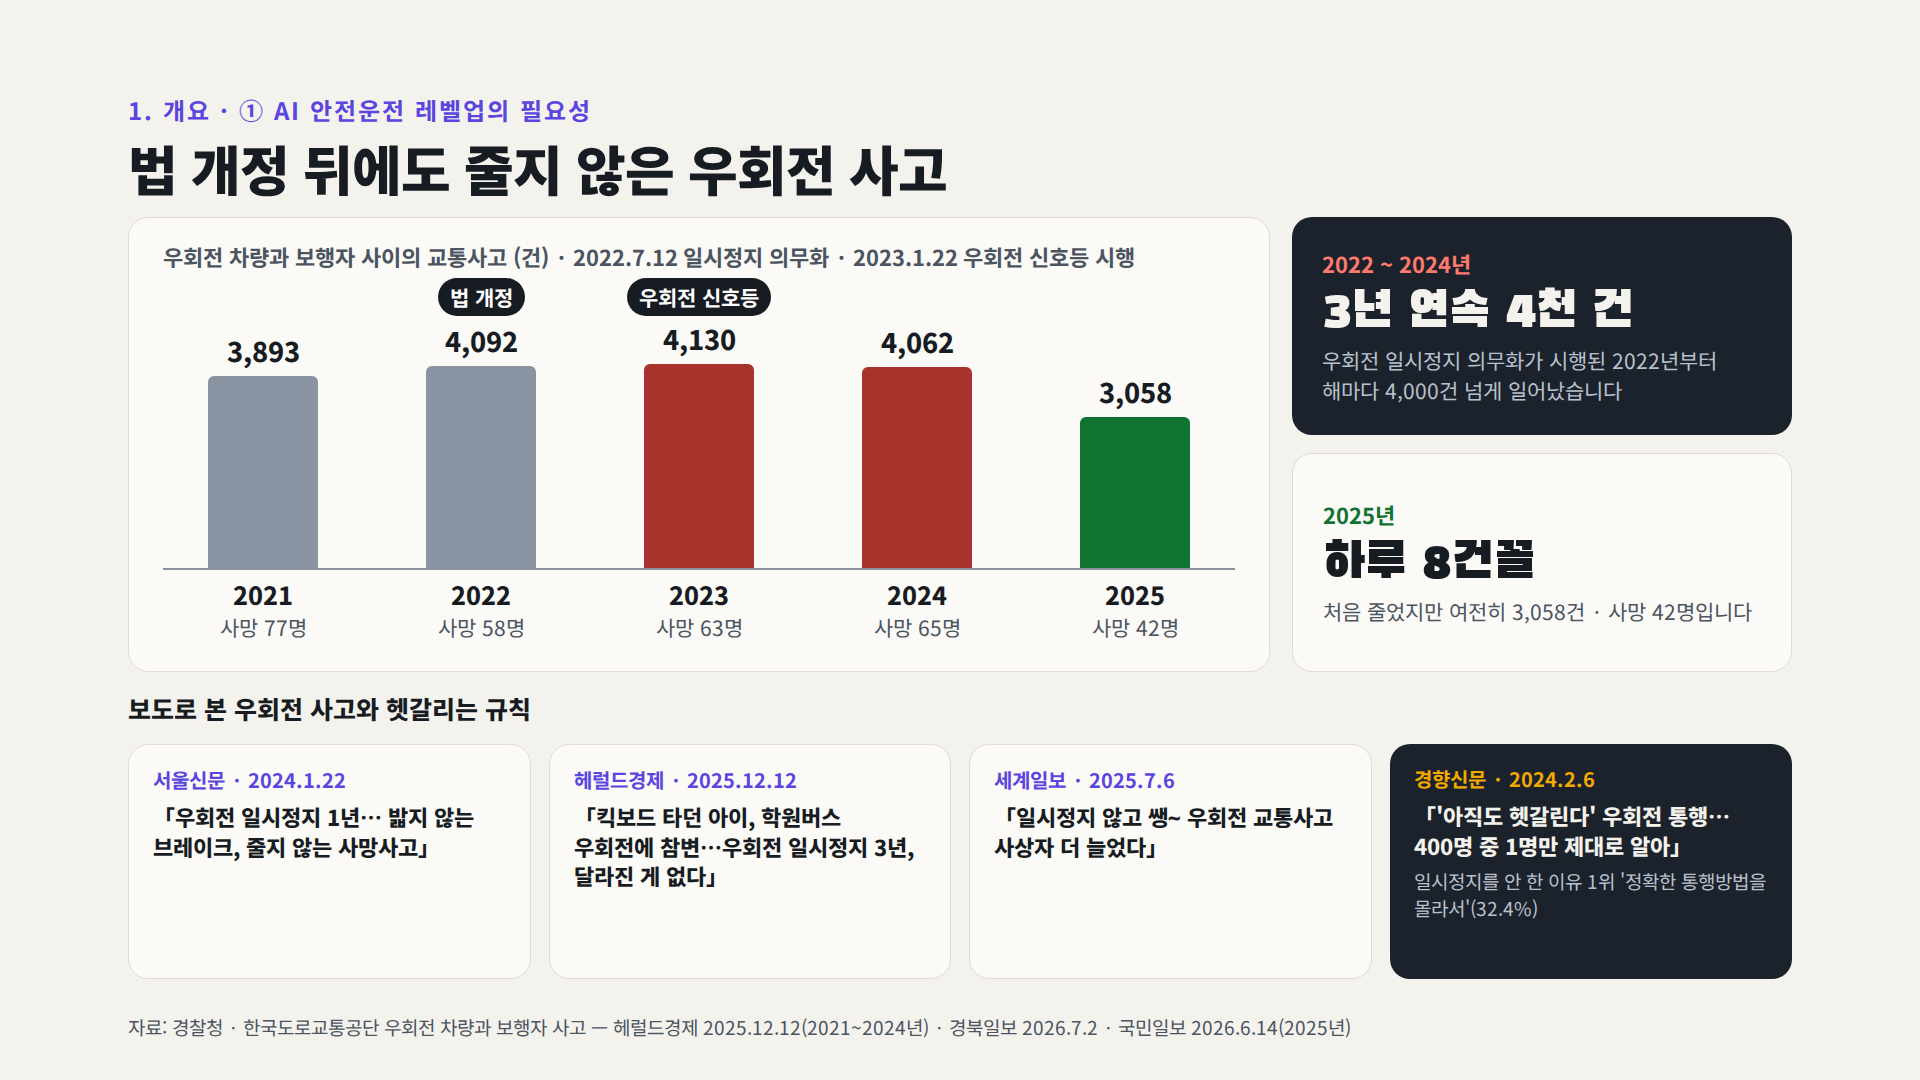
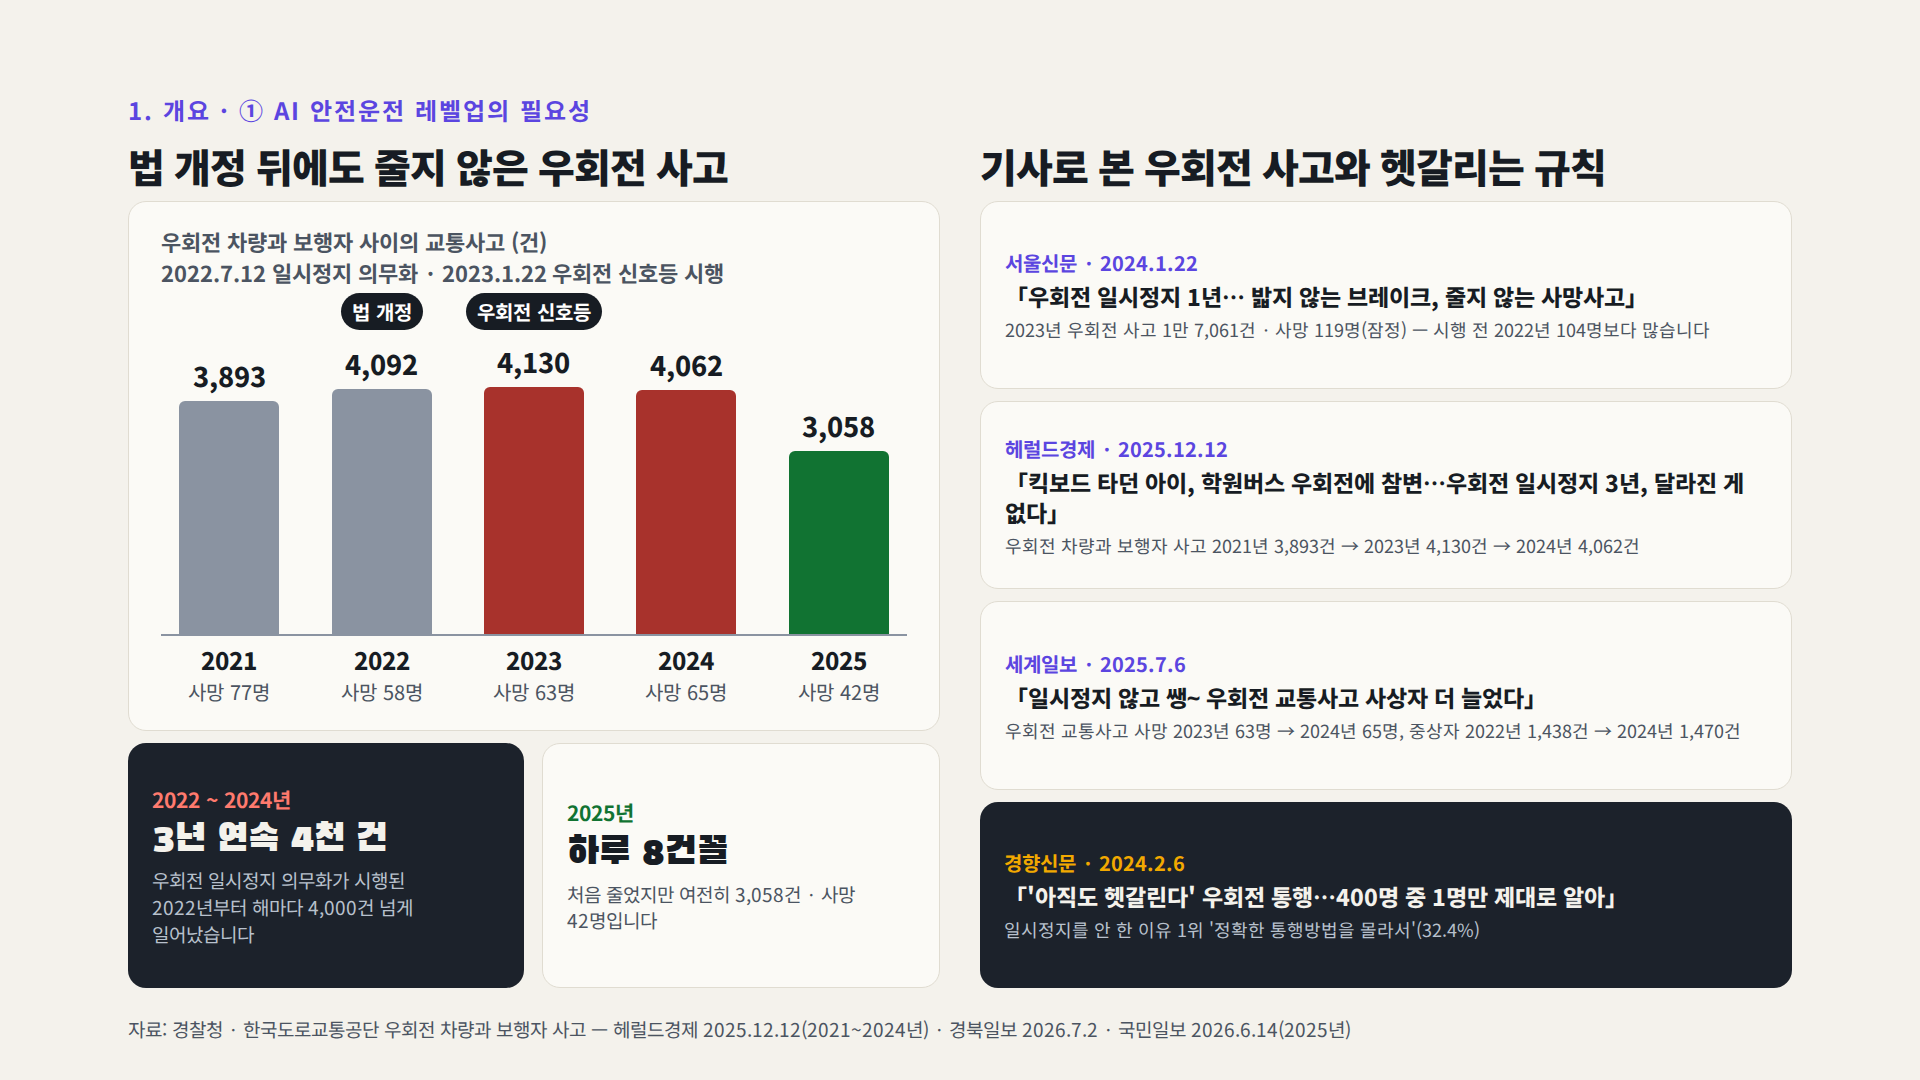
3쪽을 좌우 반으로 나눠 다시 짠다
왼쪽은 '법 개정 뒤에도 줄지 않은 우회전 사고'(그래프와 숫자 카드 둘),
오른쪽은 '기사로 본 우회전 사고와 헷갈리는 규칙'(기사 넷)이다. 반씩
나누니 자리가 생겨, 앞서 덜어냈던 기사 설명 줄 셋을 되살렸다.

오른쪽 머리말은 '보도' 가 아니라 '기사' 로 적었다.

diff --git a/AI_safelevelup_portfolio.html b/AI_safelevelup_portfolio.html
@@ -232,8 +232,8 @@
       <img src="docs/slides/02-intro.png" alt="들어가며 — AI 안전운전 레벨업을 만든 이유" loading="lazy" decoding="async">
     </section>
 
-    <section class="slide" data-chapter="1. 개요" data-title="① 필요성 · 법 개정 뒤에도 줄지 않은 우회전 사고와 보도">
-      <img src="docs/slides/05-accidents.png" alt="법 개정 뒤에도 줄지 않은 우회전 사고 — 2021~2025년 우회전 차량·보행자 사고 건수와 사망자, 그리고 보도로 본 헷갈리는 규칙" loading="lazy" decoding="async">
+    <section class="slide" data-chapter="1. 개요" data-title="① 필요성 · 법 개정 뒤에도 줄지 않은 우회전 사고와 기사">
+      <img src="docs/slides/05-accidents.png" alt="왼쪽 — 법 개정 뒤에도 줄지 않은 우회전 사고: 2021~2025년 우회전 차량·보행자 사고 건수와 사망자. 오른쪽 — 기사로 본 우회전 사고와 헷갈리는 규칙: 서울신문·헤럴드경제·세계일보·경향신문 기사 넷" loading="lazy" decoding="async">
     </section>
     <section class="slide" data-chapter="1. 개요" data-title="① 필요성 · 어린이보호구역 신호 없는 횡단보도의 일시정지">
       <img src="docs/slides/07-school-zone.png" alt="어린이보호구역 신호 없는 횡단보도의 일시정지" loading="lazy" decoding="async">

diff --git a/CHANGELOG.md b/CHANGELOG.md
@@ -72,8 +72,8 @@
 
 ### 변경
 
-- **포트폴리오의 3쪽과 4쪽을 한 장으로 합쳤습니다** (사용자가 정했습니다) — 사고 건수 그래프(3쪽)와 보도 넷(4쪽)이 **같은 이야기의 앞뒤**였습니다. 위에 그래프와 숫자 카드 둘, 아래에 보도 넷을 한 줄로 놓았습니다. 장표는 **21장 → 20장**이 되었습니다.
-  - 보도 카드의 설명 줄은 뺐습니다 — 같은 화면의 그래프가 이미 그 숫자(사고 건수 · 사망자)를 보여 주기 때문입니다. **경향신문 카드의 '32.4%' 한 줄만 남겼습니다** — 이것만은 그래프에 없는 이야기(법을 몰라서 못 지킨다)이고, 다음 장의 'AI 가 필요한 이유' 로 이어집니다.
+- **포트폴리오의 3쪽과 4쪽을 한 장으로 합쳤습니다** (사용자가 정했습니다) — 사고 건수(3쪽)와 기사 넷(4쪽)이 **같은 이야기의 앞뒤**였습니다. 화면을 좌우로 반 나눠 **왼쪽은 「법 개정 뒤에도 줄지 않은 우회전 사고」**(그래프 + 숫자 카드 둘), **오른쪽은 「기사로 본 우회전 사고와 헷갈리는 규칙」**(기사 넷)을 놓았습니다. 장표는 **21장 → 20장**이 되었습니다.
+  - 오른쪽 머리말은 사용자가 '보도' 대신 **'기사'** 로 정했습니다. 기사 카드의 설명 줄은 넷 다 그대로 있습니다.
   - README 의 저절로 넘어가는 장표도 20칸으로 다시 만들고, **판 번호를 전부 다시 그렸습니다** — 한 장이 빠지면서 `NN / 21` 이 아니라 번호 자체가 밀렸습니다. 글꼴 파일이 없어, 지금 칸들에 박힌 숫자에서 먹의 진하기를 떠서 다시 조립했습니다.
 
 - **포트폴리오에서 '만든 사람' 장표를 뺐습니다** (사용자가 정했습니다). 장표가 **22장 → 21장**이 되었고, 넘겨 보기 페이지의 쪽수 · 목록 · 장 이동은 장표 칸을 그대로 읽어 만들기 때문에 저절로 맞춰집니다. 그 장에만 쓰던 글 장표용 CSS 도 함께 지웠습니다. 라이선스 내용은 [LICENSE](LICENSE) 와 [THIRD_PARTY_NOTICES.md](THIRD_PARTY_NOTICES.md) 에 그대로 있습니다.
